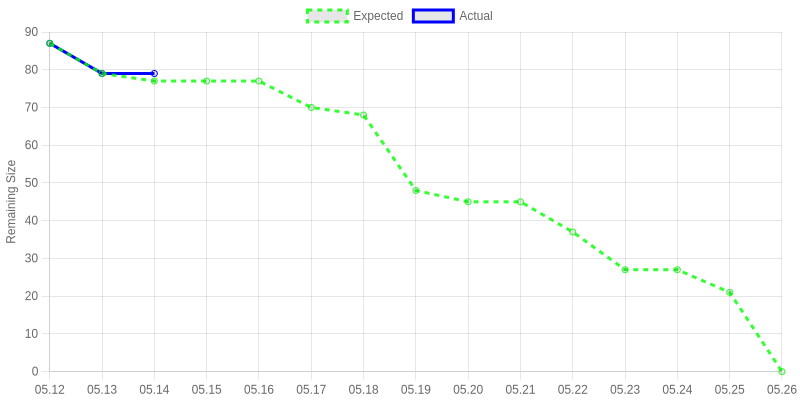
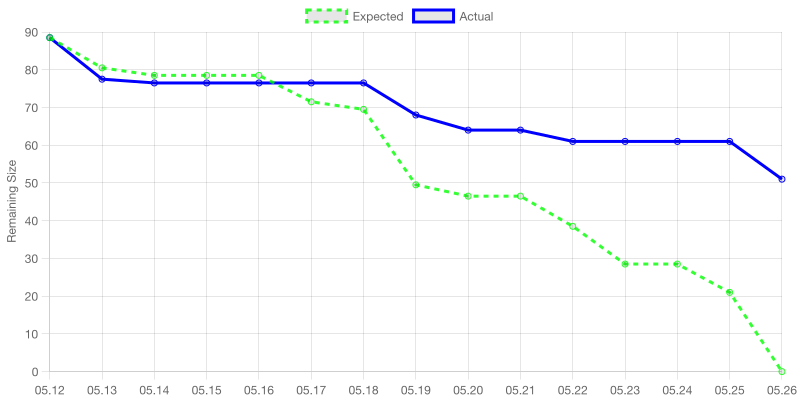
📝 sprint 2 보고서 작성 (#65)
작성 및 제출 했습니다. 원래 PR 먼저 올리고 제출하는데 시간이 촉박해서 제출을 먼저 했네요 😓

diff --git a/reports/sprint2/README.md b/reports/sprint2/README.md
@@ -6,13 +6,18 @@
 
 ## 스프린트 백로그 및 태스크 선정 이유
 
-Sprint 2의 주요 목표는 ~~
+Sprint 2의 주요 목표는 맵과 체크포인트 시스템이 적용된 온전한 형태의 게임을 제작하는 것이었습니다.
+이를 통해 Sprint 3부터는 결정된 정확한 증강 목록 기획을 바탕으로 구현하여 게임의 밸런스를 조정하는 시간을 가질 수 있도록 하는 것을 계획하였습니다.
 
-- ~~
-- ~~
-- ~~
+이런 배경에서 아래 태스크를 선정했습니다.
 
-전체 태스크 목록은 아래 태스크 할당 표 섹션에서 확인할 수 있습니다.
+- 주변 행인 및 차량 행동 구현
+- 주변 행인 및 차량 에셋 적용
+- 기본 스펙의 증강 시스템 구현 (Sprint 3에서 교체 예정)
+  - 일을 두 번 하는 게 될 수 있지만, 어차피 밸런스 조정을 하다 보면 증강 요소를 자주 교체하게 될 것이라 처음부터 증강이 교체될 것을 염두하여 아키텍처를 구성해두는 게 필요하다고 판단했습니다.
+- 서울대학교 Map의 형태 완성 (Sprint 3에서 텍스쳐 조정)
+
+전체 태스크 목록 및 선정 이유는 아래 태스크 할당 표 섹션에서 확인할 수 있습니다.
 
 <br/><br/>
 
@@ -30,31 +35,31 @@ Sprint 2의 주요 목표는 ~~
 
 ## 태스크 할당 표
 
-| 태스크 | 담당자 | 스토리 포인트 (소요시간) |
-| --- | --- | --- |
-| 스프린트 2 계획 회의 준비 | 우현민 | 3 |
-| 스프린트 2 계획 회의 진행 | 전체 | 2 |
-| 게임 종료 시 로컬에 기록 저장 구현 | 우현민 | 3 |
-| 구현할 정확한 증강시스템 고민하고 작성해서 리뷰요청하기 | 우현민 | 3 |
-| 배포 파이프라인 구축 | 우현민 | 3 |
-| GameScene에 초기 맵 적용해두기 | 조재표 | 1 |
-| 주변 차량 에셋 제작 및 적용 | 곽승연 | 7 |
-| 맵 고도화: 사이즈 키우기 | 조재표 | 1 |
-| 동료 픽업 체크포인트 구현 | 문지환 | 1 |
-| 행인 충돌 시 이전 체크포인트로 이동 | 문지환 | 1 |
-| 증강 시스템 1차 구현 | 문지환 | 5 |
-| 미니맵 구현 | 장호림 | 3 |
-| 주인공 에셋 1차 제작 및 적용 | 곽승연 | 5 |
-| 맵 고도화: 수목 생성 | 조재표 | 7 |
-| 주변 차량 행동 및 충돌 시 로직 구현 | 문지환 | 5 |
-| 맵 고도화: 교차로 | 조재표 | 6 |
-| 전체화면 맵 구현 | 장호림 | 4 |
-| 기본 차량 적용하면서 고도화 | 곽승연 | 5 |
-| 최종 증강: 비행 시스템 구현 | 문지환 | 4 |
-| 특수 효과 BGM 제작 및 적용 | 장호림 | 6 |
-| 맵 고도화: 보도블럭 | 조재표 | 7 |
-| 스프린트 2 회고 회의 준비 & 끝나고 보고서 작성 | 우현민 | 3 |
-| 스프린트 2 회고 회의 진행 | 전체 | 2 |
+| 태스크 | 담당자 | 스토리 포인트 (소요시간) | 선정 이유 (당연한 태스크는 생략) |
+| --- | --- | --- | --- |
+| 스프린트 2 계획 회의 준비 | 우현민 | 3 | - |
+| 스프린트 2 계획 회의 진행 | 전체 | 2 | - |
+| 게임 종료 시 로컬에 기록 저장 구현 | 우현민 | 3 | Sprint 4에서 랭킹 대시보드 기능을 제작하기 위해 미리 제작 |
+| 구현할 정확한 증강시스템 고민하고 작성해서 리뷰요청하기 | 우현민 | 3 | Sprint 3에서 증강시스템을 개발하려면 기획이 필요. <br/> 핵심 시스템이니만큼 별도 태스크로 처리하여 단체 리뷰 진행 |
+| 배포 파이프라인 구축 | 우현민 | 3 | Sprint 1 회고에서의 Pain Point 로 지적되었던 "최신 상태를 인지하기 힘들다"는 문제를 해결하기 위해 진행 |
+| GameScene에 초기 맵 적용해두기 | 조재표 | 1 | 개발이 파편화되어 진행되고 있었는데, 하나로 합치려면 하나의 맵 위에서 개발하는 게 필요 |
+| 주변 차량 에셋 제작 및 적용 | 곽승연 | 7 | 에셋 제작 |
+| 맵 고도화: 사이즈 키우기 | 조재표 | 1 | 맵 자체 이슈가 있어 진행 |
+| 동료 픽업 체크포인트 구현 | 문지환 | 1 | 게임 구현 |
+| 행인 충돌 시 이전 체크포인트로 이동 | 문지환 | 1 | 게임 구현 |
+| 증강 시스템 1차 구현 | 문지환 | 5 | 게임 구현 |
+| 미니맵 초안 구현 | 장호림 | 3 | 게임 구현 |
+| 주인공 에셋 1차 제작 및 적용 | 곽승연 | 5 | 에셋 제작 |
+| 맵 고도화: 수목 생성 | 조재표 | 7 | 맵 완성도 향상 |
+| 주변 차량 행동 및 충돌 시 로직 구현 | 문지환 | 5 | 게임 구현 |
+| 맵 고도화: 교차로 | 조재표 | 6 | 맵 완성도 향상 |
+| 전체화면 맵 구현 | 장호림 | 4 | 게임 구현 |
+| 기본 차량 적용하면서 고도화 | 곽승연 | 5 | 에셋 제작 |
+| 최종 증강: 비행 시스템 구현 | 문지환 | 4 | 게임 구현 |
+| 특수 효과 BGM 제작 및 적용 | 장호림 | 6 | 에셋 제작 |
+| 맵 고도화: 보도블럭 | 조재표 | 7 | 맵 완성도 향상 |
+| 스프린트 2 회고 회의 준비 & 끝나고 보고서 작성 | 우현민 | 3 | - |
+| 스프린트 2 회고 회의 진행 | 전체 | 2 | - |
 
 <br/><br/><br/><br/><br/>
 
@@ -78,19 +83,42 @@ Sprint 2 기간인 5/12부터 5/25까지의 커밋 내역은 아래 링크에서
 
 | 태스크 | 담당자 | 예상 시간 | 실제 시간 | 예상 일정 | 실제 일정 | 관련 링크 |
 | --- | --- | --- | --- | --- | --- | --- |
-| 나중에 | 복붙해서 | 넣을 | 예정 | 입 | 니 | 다 |
+| 스프린트 2 계획 회의 준비| 우현민| 3| 3| 2025년 5월 9일 → 2025년 5월 12일| 2025년 5월 11일 → 2025년 5월 12일| https://2025springswppimo.slack.com/files/U08HG6Q15NK/F08S00H1XH8/250512_____________________________2____________________________________________.pdf |
+| 스프린트 2 계획 회의 진행| 전체| 2| 2| 2025년 5월 12일 → 2025년 5월 12일| 2025년 5월 12일 → 2025년 5월 12일| https://2025springswppimo.slack.com/files/U08HG6Q15NK/F08S00H1XH8/250512_____________________________2____________________________________________.pdf |
+| 미니맵 초안 구현| 장호림| 3| 1| 2025년 5월 15일 → 2025년 5월 18일| 2025년 5월 12일 → 2025년 5월 12일| https://github.com/SWPP-2025SPRING/team-project-for-2025-spring-swpp-team-07/pull/47 |
+| 게임 종료 시 로컬에 기록 저장 구현| 우현민| 3| 2| 2025년 5월 19일 → 2025년 5월 19일| 2025년 5월 12일 → 2025년 5월 12일| https://github.com/SWPP-2025SPRING/team-project-for-2025-spring-swpp-team-07/pull/46 |
+| GameScene에 초기 맵 적용해두기| 조재표| 1| 1| 2025년 5월 13일 → 2025년 5월 13일| 2025년 5월 13일 → 2025년 5월 13일| https://github.com/SWPP-2025SPRING/team-project-for-2025-spring-swpp-team-07/pull/48 |
+| 주변 차량 에셋 제작 및 적용| 곽승연| 7| 15| 2025년 5월 13일 → 2025년 5월 16일| 2025년 5월 13일 → 2025년 5월 18일| https://github.com/SWPP-2025SPRING/team-project-for-2025-spring-swpp-team-07/pull/61 |
+| 특수 효과 BGM 수집| 장호림| 1.5| 1.5| 2025년 5월 22일 → 2025년 5월 24일| 2025년 5월 18일 → 2025년 5월 18일| https://github.com/SWPP-2025SPRING/team-project-for-2025-spring-swpp-team-07/pull/62 |
+| 전체화면 맵 구현| 장호림| 4| 1| 2025년 5월 19일 → 2025년 5월 22일| 2025년 5월 19일 → 2025년 5월 19일| https://github.com/SWPP-2025SPRING/team-project-for-2025-spring-swpp-team-07/pull/55 |
+| 구현할 정확한 증강시스템 고민하고 작성해서 리뷰요청하기| 우현민| 3| 3| 2025년 5월 12일 → 2025년 5월 21일| 2025년 5월 21일 → 2025년 5월 21일| https://github.com/SWPP-2025SPRING/team-project-for-2025-spring-swpp-team-07/pull/58 |
+| 기본 차량 적용하면서 고도화| 곽승연| 5| 5| 2025년 5월 19일 → 2025년 5월 25일| 2025년 5월 25일 → 2025년 5월 25일| https://github.com/SWPP-2025SPRING/team-project-for-2025-spring-swpp-team-07/pull/61 |
+| 동료 픽업 체크포인트 구현| 문지환| 1| 0.5 | 2025년 5월 14일 → 2025년 5월 17일| 2025년 5월 25일 → 2025년 5월 25일| https://github.com/SWPP-2025SPRING/team-project-for-2025-spring-swpp-team-07/pull/64 |
+| 행인 충돌 시 이전 체크포인트로 이동| 문지환| 1| 0.5 | 2025년 5월 14일 → 2025년 5월 17일| 2025년 5월 25일 → 2025년 5월 25일| https://github.com/SWPP-2025SPRING/team-project-for-2025-spring-swpp-team-07/pull/64 |
+| 스프린트 2 회고 회의 준비 & 끝나고 보고서 작성| 우현민| 3| 3| 2025년 5월 23일 → 2025년 5월 25일| 2025년 5월 25일 → 2025년 5월 25일| https://2025springswppimo.slack.com/files/U08HG6Q15NK/F08U0CG6KRA/250525_____________________________2___________________________________.pdf |
+| 스프린트 2 회고 회의 진행| 전체| 2| 1| 2025년 5월 25일 → 2025년 5월 25일| 2025년 5월 25일 → 2025년 5월 25일| https://2025springswppimo.slack.com/files/U08HG6Q15NK/F08U0CG6KRA/250525_____________________________2___________________________________.pdf |
+| 배포 파이프라인 구축| 우현민| 3| 3| 2025년 5월 12일 → 2025년 5월 12일|  |
+| 맵 고도화: 사이즈 키우기| 조재표| 1| 미진행 | 2025년 5월 13일 → 2025년 5월 13일|  |
+| 증강 시스템 1차 구현| 문지환| 5| 미진행 | 2025년 5월 15일 → 2025년 5월 18일|  |
+| 주인공 에셋 1차 제작 및 적용| 곽승연| 5| 미진행 | 2025년 5월 16일 → 2025년 5월 18일|  |
+| 맵 고도화: 수목 생성| 조재표| 7| 미진행 | 2025년 5월 16일 → 2025년 5월 18일|  |
+| 주변 차량 행동 및 충돌 시 로직 구현| 문지환| 5| 미진행 | 2025년 5월 18일 → 2025년 5월 21일|  |
+| 맵 고도화: 교차로| 조재표| 6| 미진행 | 2025년 5월 18일 → 2025년 5월 22일|  |
+| 최종 증강: 비행 시스템 구현| 문지환| 4| 미진행 | 2025년 5월 22일 → 2025년 5월 25일|  |
+| 특수 효과 BGM 제작 및 적용| 장호림| 6| 미진행 | 2025년 5월 22일 → 2025년 5월 24일|  |
+| 맵 고도화: 보도블럭| 조재표| 7| 미진행 | 2025년 5월 22일 → 2025년 5월 25일|  |
 
 ## 페어 프로그래밍 기록
 
 | 내용 | Driver | Navigator | 날짜 | 시간 | 작업 결과물 | 증빙 |
 | --- | --- | --- | --- | --- | --- | --- |
-| TBD | 조재표 | 문지환 | 05-12 | 20:50-21:30 | [GitHub PR](https://github.com/SWPP-2025SPRING/team-project-for-2025-spring-swpp-team-07/pull/48) | [Slack Image](https://2025springswppimo.slack.com/files/U08HG6Q15NK/F08SM2LKC0G/img_3051.jpeg) |
-| TBD | 문지환 | 조재표 | 05-12 | 19:40-20:20 | [GitHub PR](https://github.com/SWPP-2025SPRING/team-project-for-2025-spring-swpp-team-07/pull/45) | [Slack Image](https://2025springswppimo.slack.com/files/U08HG6Q15NK/F08SM2LKC0G/img_3051.jpeg) |
-| TBD | 우현민 | 장호림 | 05-12 | 19:45-20:35 | [GitHub Commit](https://github.com/SWPP-2025SPRING/team-project-for-2025-spring-swpp-team-07/pull/46/commits/fa82d7e4c0112efd4977565f0990989386c818c5) | [Slack Image](https://2025springswppimo.slack.com/files/U08HG6Q15NK/F08S01REZUJ/img_1124.jpg) |
-| TBD | 장호림 | 우현민 | 05-12 | 20:35-21:05 | [GitHub PR](https://github.com/SWPP-2025SPRING/team-project-for-2025-spring-swpp-team-07/pull/47) | [Slack Image](https://2025springswppimo.slack.com/files/U08HG6Q15NK/F08S01REZUJ/img_1124.jpg)
-| TBD | 우현민 | 문지환 | 05-19 | 18:40-19:41 | [GitHub PR](https://github.com/SWPP-2025SPRING/team-project-for-2025-spring-swpp-team-07/pull/54) | [Slack Image](https://2025springswppimo.slack.com/files/U08HG6Q15NK/F08SR38S72P/img_1142.jpg) |
-| TBD | 장호림 | 곽승연 | 05-19 | 19:00-19:40 | [GitHub PR](https://github.com/SWPP-2025SPRING/team-project-for-2025-spring-swpp-team-07/pull/52) | [Slack Image](https://2025springswppimo.slack.com/files/U08HG6Q15NK/F08SR47UGE7/kakaotalk_20250519_201636283.jpg) |
-| TBD | 곽승연 | 장호림 | 05-19 | 19:40-20:20 | [Slack File](https://2025springswppimo.slack.com/archives/C08KVGJU4H4/p1747653627335159?thread_ts=1747651245.296919&cid=C08KVGJU4H4) | [Slack Image](https://2025springswppimo.slack.com/files/U08HG6Q15NK/F08SR47UGE7/kakaotalk_20250519_201636283.jpg)
+| `GameScene에 초기 맵 적용해두기` 태스크 | 조재표 | 문지환 | 05-12 | 20:50-21:30 | [GitHub PR](https://github.com/SWPP-2025SPRING/team-project-for-2025-spring-swpp-team-07/pull/48) | [Slack Image](https://2025springswppimo.slack.com/files/U08HG6Q15NK/F08SM2LKC0G/img_3051.jpeg) |
+| `행인 충돌 시 이전 체크포인트로 이동` 태스크 사전작업 | 문지환 | 조재표 | 05-12 | 19:40-20:20 | [GitHub PR](https://github.com/SWPP-2025SPRING/team-project-for-2025-spring-swpp-team-07/pull/45) | [Slack Image](https://2025springswppimo.slack.com/files/U08HG6Q15NK/F08SM2LKC0G/img_3051.jpeg) |
+| `게임 종료 시 로컬에 기록 저장 구현` 태스크 | 우현민 | 장호림 | 05-12 | 19:45-20:35 | [GitHub Commit](https://github.com/SWPP-2025SPRING/team-project-for-2025-spring-swpp-team-07/pull/46/commits/fa82d7e4c0112efd4977565f0990989386c818c5) | [Slack Image](https://2025springswppimo.slack.com/files/U08HG6Q15NK/F08S01REZUJ/img_1124.jpg) |
+| `미니맵 초안 구현` 태스크 | 장호림 | 우현민 | 05-12 | 20:35-21:05 | [GitHub PR](https://github.com/SWPP-2025SPRING/team-project-for-2025-spring-swpp-team-07/pull/47) | [Slack Image](https://2025springswppimo.slack.com/files/U08HG6Q15NK/F08S01REZUJ/img_1124.jpg)
+| `주변 차량 행동 및 충돌 시 로직 구현` 태스크 사전작업 | 우현민 | 문지환 | 05-19 | 18:40-19:41 | [GitHub PR](https://github.com/SWPP-2025SPRING/team-project-for-2025-spring-swpp-team-07/pull/54) | [Slack Image](https://2025springswppimo.slack.com/files/U08HG6Q15NK/F08SR38S72P/img_1142.jpg) |
+| `특수 효과 BGM 제작 및 적용` 태스크 중 사운드 리서치 작업 | 장호림 | 곽승연 | 05-19 | 19:00-19:40 | [GitHub PR](https://github.com/SWPP-2025SPRING/team-project-for-2025-spring-swpp-team-07/pull/52) | [Slack Image](https://2025springswppimo.slack.com/files/U08HG6Q15NK/F08SR47UGE7/kakaotalk_20250519_201636283.jpg) |
+| `주인공 에셋 1차 제작 및 적용` 태스크 | 곽승연 | 장호림 | 05-19 | 19:40-20:20 | [Slack File](https://2025springswppimo.slack.com/archives/C08KVGJU4H4/p1747653627335159?thread_ts=1747651245.296919&cid=C08KVGJU4H4) | [Slack Image](https://2025springswppimo.slack.com/files/U08HG6Q15NK/F08SR47UGE7/kakaotalk_20250519_201636283.jpg)
 
 # Sprint 2 회고 회의 보고서
 
@@ -98,12 +126,44 @@ Sprint 2 기간인 5/12부터 5/25까지의 커밋 내역은 아래 링크에서
 
 <br/><br/>
 
-## 잘 된/안 된 부분에 대한 내용 정리 및 코멘트
+## 잘 된/안 된 부분에 대한 KPT 정리
 
-- TBD
+| 사람 | Keep | Problem | Try |
+| --- | --- | --- | --- |
+| 우현민 | 페어프로그래밍 진행이 재미있었음 | 슬랙 스크럼 참여도가 떨어지고 있음, 예상 일정이 지켜지지 않고 있음, 태스크를 모두 완료하지 못함 | |
+| 곽승연 | 초반에 큰 로드가 있는 태스크를 진행해서 후반에 수월했음 | 일찍 일찍 안 한 것, 컴퓨터 사양 이슈 | 일정에 맞춰 진행하기 |
+| 조재표 | Sprint 1 회고를 바탕으로, 리서치 시간을 늘린 게 도움이 됨 | 다른 과목 과제들 때문에 예상 일정에 태스크를 진행하기 어려움, 맵이 커서 컴퓨터 사양이 무족하여 컴퓨터가 뻗거나 진행 중인 파일이 날아가는 현상들 발생 | 리소스를 적게 차지하는 방향으로 리서치 필요, 커밋 및 백업 자주 하기 |
+| 장호림 | 페어프로그래밍 진행이 재미도 있었고, 생산성도 높았음. 병목 없이 문제가 생겼을 때 바로 해결되었음 | 태스크 병목 때문에 태스크를 진행하지 못했음 | 사람 간 병목이 없게 태스크를 설계하는 게 필요하다 |
+| 문지환 | 쉬운 태스크들을 쉽게 진행함 | 기능 단위로 커밋을 하지 않았는데, 문제가 발생하니 모두 병목이 걸려버림 | 슬랙으로 소통 더 자주 하기 |
 
 <br/><br/>
 
 ## 프로덕트 백로그 우선순위 조정 기록
 
-- TBD
+- `배포 파이프라인 구축` 태스크의 경우 무료 플랜에서 진행이 불가능하여 태스크 취소했습니다. (관련 [PR](https://github.com/SWPP-2025SPRING/team-project-for-2025-spring-swpp-team-07/pull/60))
+- `맵 고도화: 사이즈 키우기`, `맵 고도화: 수목 생성`, `맵 고도화: 교차로`, `맵 고도화: 보도블럭` 태스크의 경우 조재표 학생의 시간 부족으로 진행하지 못하였습니다. 더해서 조재표 학생의 컴퓨터 사양 문제가 있어 Sprint 3 계획 미팅에서 방향성 재조정 진행 예정입니다.
+- `증강 시스템 1차 구현`, `주변 차량 행동 및 충돌 시 로직 구현`, `최종 증강: 비행 시스템 구현` 태스크의 경우 문지환 학생의 시간 부족으로 진행하지 못했습니다. Sprint 2에서는 진행하지 못했으나 Sprint 3에는 지장이 가지 않도록, 문지환 학생이 Sprint 3 계획 회의 전까지 완료 예정입니다.
+- `주인공 에셋 1차 제작 및 적용` 태스크의 경우 방향성이 재조정되었는데, 곽승연 학생의 시간 부족으로 진행하지 못했습니다. Sprint 3에서 진행 예정입니다.
+- `특수 효과 BGM 제작 및 적용` 태스크의 경우 앞선 태스크의 병목이 해결되지 않아 장호림 학생이 진행할 수 없었습니다. `특수 효과 BGM 수집` 태스크로 변경하고, 적용 태스크는 Sprint 3에서 진행 예정입니다.
+
+<br/><br/>
+
+## 전체 총평
+
+전반적으로 학기가 진행됨에 따라 다른 과목의 과제들이 deadline이 가까워져서, 본 과목의 과제도 Sprint 일정은 맞출 수 있으나 예상 일정 deadline 까지 맞추기는 버거운 상태인 것으로 파악되었습니다. 현실적인 문제가 있긴 하지만, 그래도 가급적이면 제때 진행하는 것으로 논의하였고, 또한 태스크 진행이 늦어질 경우 슬랙을 통해 잘 공유하는 게 필요하겠다고 판단하였습니다.
+
+페어프로그래밍의 경우 긍정적인 피드백을 받고 있고 앞으로도 계속 매주 월요일에 진행 예정입니다.
+
+점점 게임의 스펙이 커지며 학생들의 컴퓨터 사양이 blender와 unity 를 원활하게 실행하고 쾌적하게 개발하기 어려운 상태라는 문제가 존재하는데, 따로 해결방법이 없어 사양에 문제가 있는 학생들은 사비로 더 좋은 노트북을 구매해야 할지 고민하고 있습니다. 또는 학교에서 대여해주는 고사양 기기가 있을지 확인이 필요할 수 있겠다는 논의가 진행되었습니다.
+
+<br/><br/><br/><br/><br/>
+
+# 스프린트 추가내용
+
+Sprint 2에서의 추가 작성 내용은 디자인 패턴입니다.
+
+## 디자인 패턴
+
+- [ProceduralRoad.cs#L186-L218](https://github.com/SWPP-2025SPRING/team-project-for-2025-spring-swpp-team-07/blob/039b76a37d592ca87df977e80a9240a11eaf546a/SchoolRush/Assets/Scripts/Map/ProceduralRoad.cs#L186C1-L218C6) 등 파일들을 보면, unity 가 제공하는 기능에 맞춰 `OnInitialized` 나 `OnDestroy` 와 같은 함수들을 구현하고 있습니다. 이는 unity 가 프레임워크로서 자체적으로 제공하는 기능으로 프레임워크와 결합하여 Observer Pattern 의 형태로 개발된 대표적인 예시입니다.
+- [ProceduralRoad.cs#L228-L234](https://github.com/SWPP-2025SPRING/team-project-for-2025-spring-swpp-team-07/blob/039b76a37d592ca87df977e80a9240a11eaf546a/SchoolRush/Assets/Scripts/Map/ProceduralRoad.cs#L228-L234) 에는 `useSpline` 불리언 변수에 따라 `CreateSplines()` 를 실행하거나, 아니면 if 문 아래의 나머지 구문을 실행하는 식의 코드가 구현되어 있습니다. 정형화된 형태와 조금 다르긴 하나 전략을 정의하고 변수에 따라 정해진 전략을 실행한다는 관점에서 `Strategy Pattern` 과 유사한 형태로 볼 수 있습니다. 추후 리팩토링을 통해 더 Strategy Pattern 스러운 코드로 변경할 수 있습니다.
+- [PlayerData](https://github.com/SWPP-2025SPRING/team-project-for-2025-spring-swpp-team-07/blob/7d84c2089b11d96f069e90690f4d2f160057920a/SchoolRush/Assets/Scripts/PlayerData.cs#L4-L25) class의 구현체는 [KartController](https://github.com/SWPP-2025SPRING/team-project-for-2025-spring-swpp-team-07/blob/7d84c2089b11d96f069e90690f4d2f160057920a/SchoolRush/Assets/Scripts/Kart/KartController.cs#L28)에 Singleton 으로 정의되어서 하나의 인스턴스만 존재하는 형태입니다. 이런 형태를 가진 덕분에 PlayerData 클래스 안에 로그 데이터를 담아 두고, 게임이 종료되었을 때 해당 데이터를 꺼내어 로컬 파일시스템에 저장할 수 있습니다.
